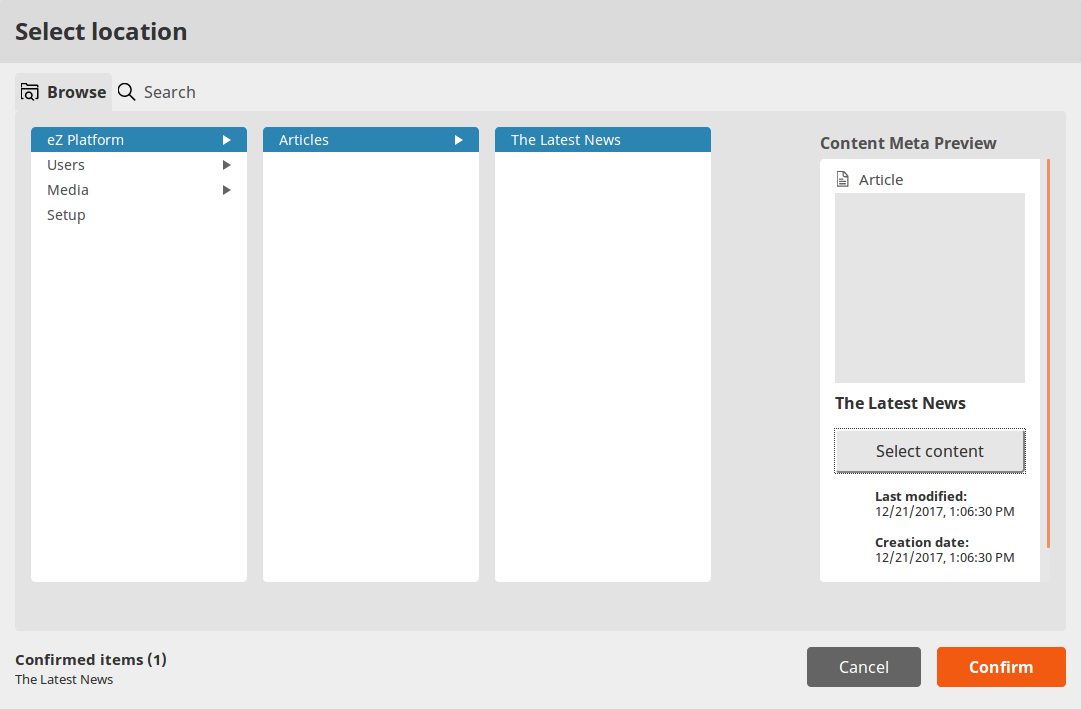
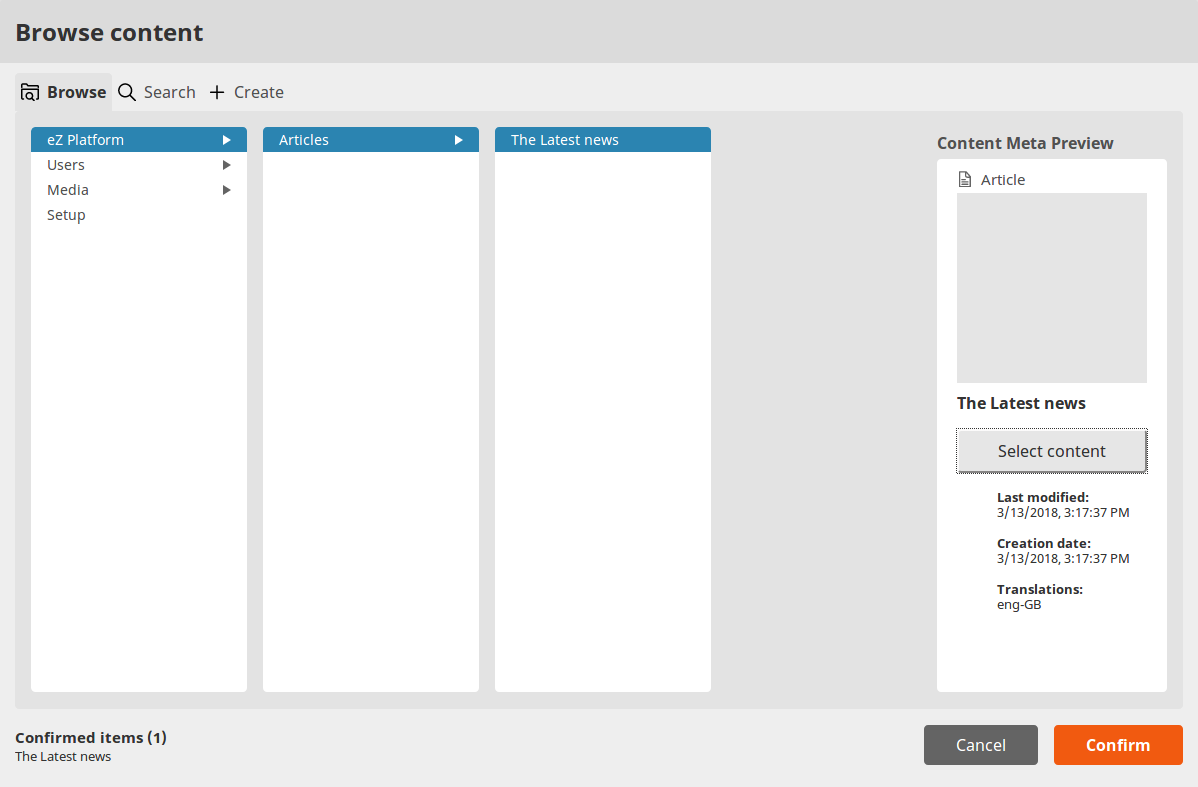
Update to 2.1

Changed region(s): [[0.0, 0.0931, 0.6716, 0.9929], [0.7327, 0.1551, 1.0, 0.9929], [0.0, 0.031, 0.1832, 0.0621]]

diff --git a/docs/organizing_the_content.md b/docs/organizing_the_content.md
@@ -76,6 +76,21 @@ The content will appear in Trash only once you have removed the last Location.
 You can permanently remove all content from the Trash by activating **Empty the Trash**.
 **Warning! This action cannot be undone!**
 
+## URL aliases
+
+Each Content item can have one or more additional URL aliases. There are addiontial URL that can be used to access this Content item.
+
+You can add URL aliases in the URL tab under **Custom URL aliases for <Content name>** by activating the plus button.
+
+![Creating a new URL alias](img/create_new_url_alias.png)
+
+For each new alias you can set the following options:
+
+- Language - the language of the Content item that the alias redirects to.
+- Alias should redirect to its destination - when this is checked, the alias will redirect to the Content item's actual URL.
+- Place alias at the site root - when this is checked, the alias will be created in the root of the site.
+If this is unchecked, the alias will be relative to the parent of the Content item.
+
 ## Sections
 
 You can divide your Content tree into Sections to better organize it.
@@ -94,6 +109,18 @@ Each Content item must belong to a Section. By default new Content is placed in 
 If you want to remove a Content item from a Section, you just need to assign it to a different one.
 
 Access to Sections can be restricted by [setting up proper permissions](organizing_the_site.md#permissions).
+
+## Object states
+
+You can assign specific Object states to all Content items in your site.
+You can do it when viewing the Content item, in the Details tab in State details section.
+
+![Object state details](img/object_state_details.png)
+
+!!! note
+
+    The functioning of Object states can be set up differently in each installation.
+    Contact your site administrator for information on how to use the states in your case.
 
 ## Links
 

diff --git a/docs/creating_content_basic.md b/docs/creating_content_basic.md
@@ -2,14 +2,18 @@
 
 ## Creating content
 
-There are two ways of creating a new Content item:
+There are four ways of creating a new Content item:
 
 1. Activate **Create** in the right menu *whenever you are viewing any other content*.
 The new item will be placed under this content in the tree.
+1. Activate **Create** in the upper right corner of the *Dashboard*.
+In this case you will have to select where the content will be located.
+1. Go to the **Create** tab in the *Universal Discovery Widget*.
+Here also you'll have to choose a location for the new item.
 1. Drag files onto the *Sub-items box* when viewing any content or activate the upload button and select files to upload.
 In this way you can upload files such as images, videos, pdf documents etc.
 
-If you choose the first option, you have to select the Content Type first.
+If you choose the first three options, you have to select the Content Type first.
 When uploading files the Content Type will be chosen automatically.
 
 If you are using eZ Enterprise, you will have the *Landing Page* Content Type available for selection.
@@ -66,6 +70,10 @@ See [Images](https://doc.ezplatform.com/en/latest/guide/images/) for a technica
 
 In table options you can define the first row and/or column as headers,
 add and delete rows and columns in any part of the table as well as merge and split cells.
+
+#### Custom elements
+
+You installation can also have custom elements. Contact your site administrator about the details of using them.
 
 #### Text formatting
 

diff --git a/docs/publishing.md b/docs/publishing.md
@@ -21,7 +21,8 @@ A discarded draft is removed instantly, not placed in the Trash, so it can't be 
 
 Once you leave the editor after saving your draft, you can return to modify it, or create a new draft.
 To edit an existing draft, go to the **Versions** tab and click the edit icon in the proper line.
-When you select **Edit** in a Content item, you will create a new draft.
+When you select **Edit** in a Content item that has one or more open drafts, you will be asked which draft you want to continue working on.
+You will also have the option to create a new Draft based on the currently published version.
 Note that you cannot edit an unpublished draft created by another user.
 
 ### Content versions
